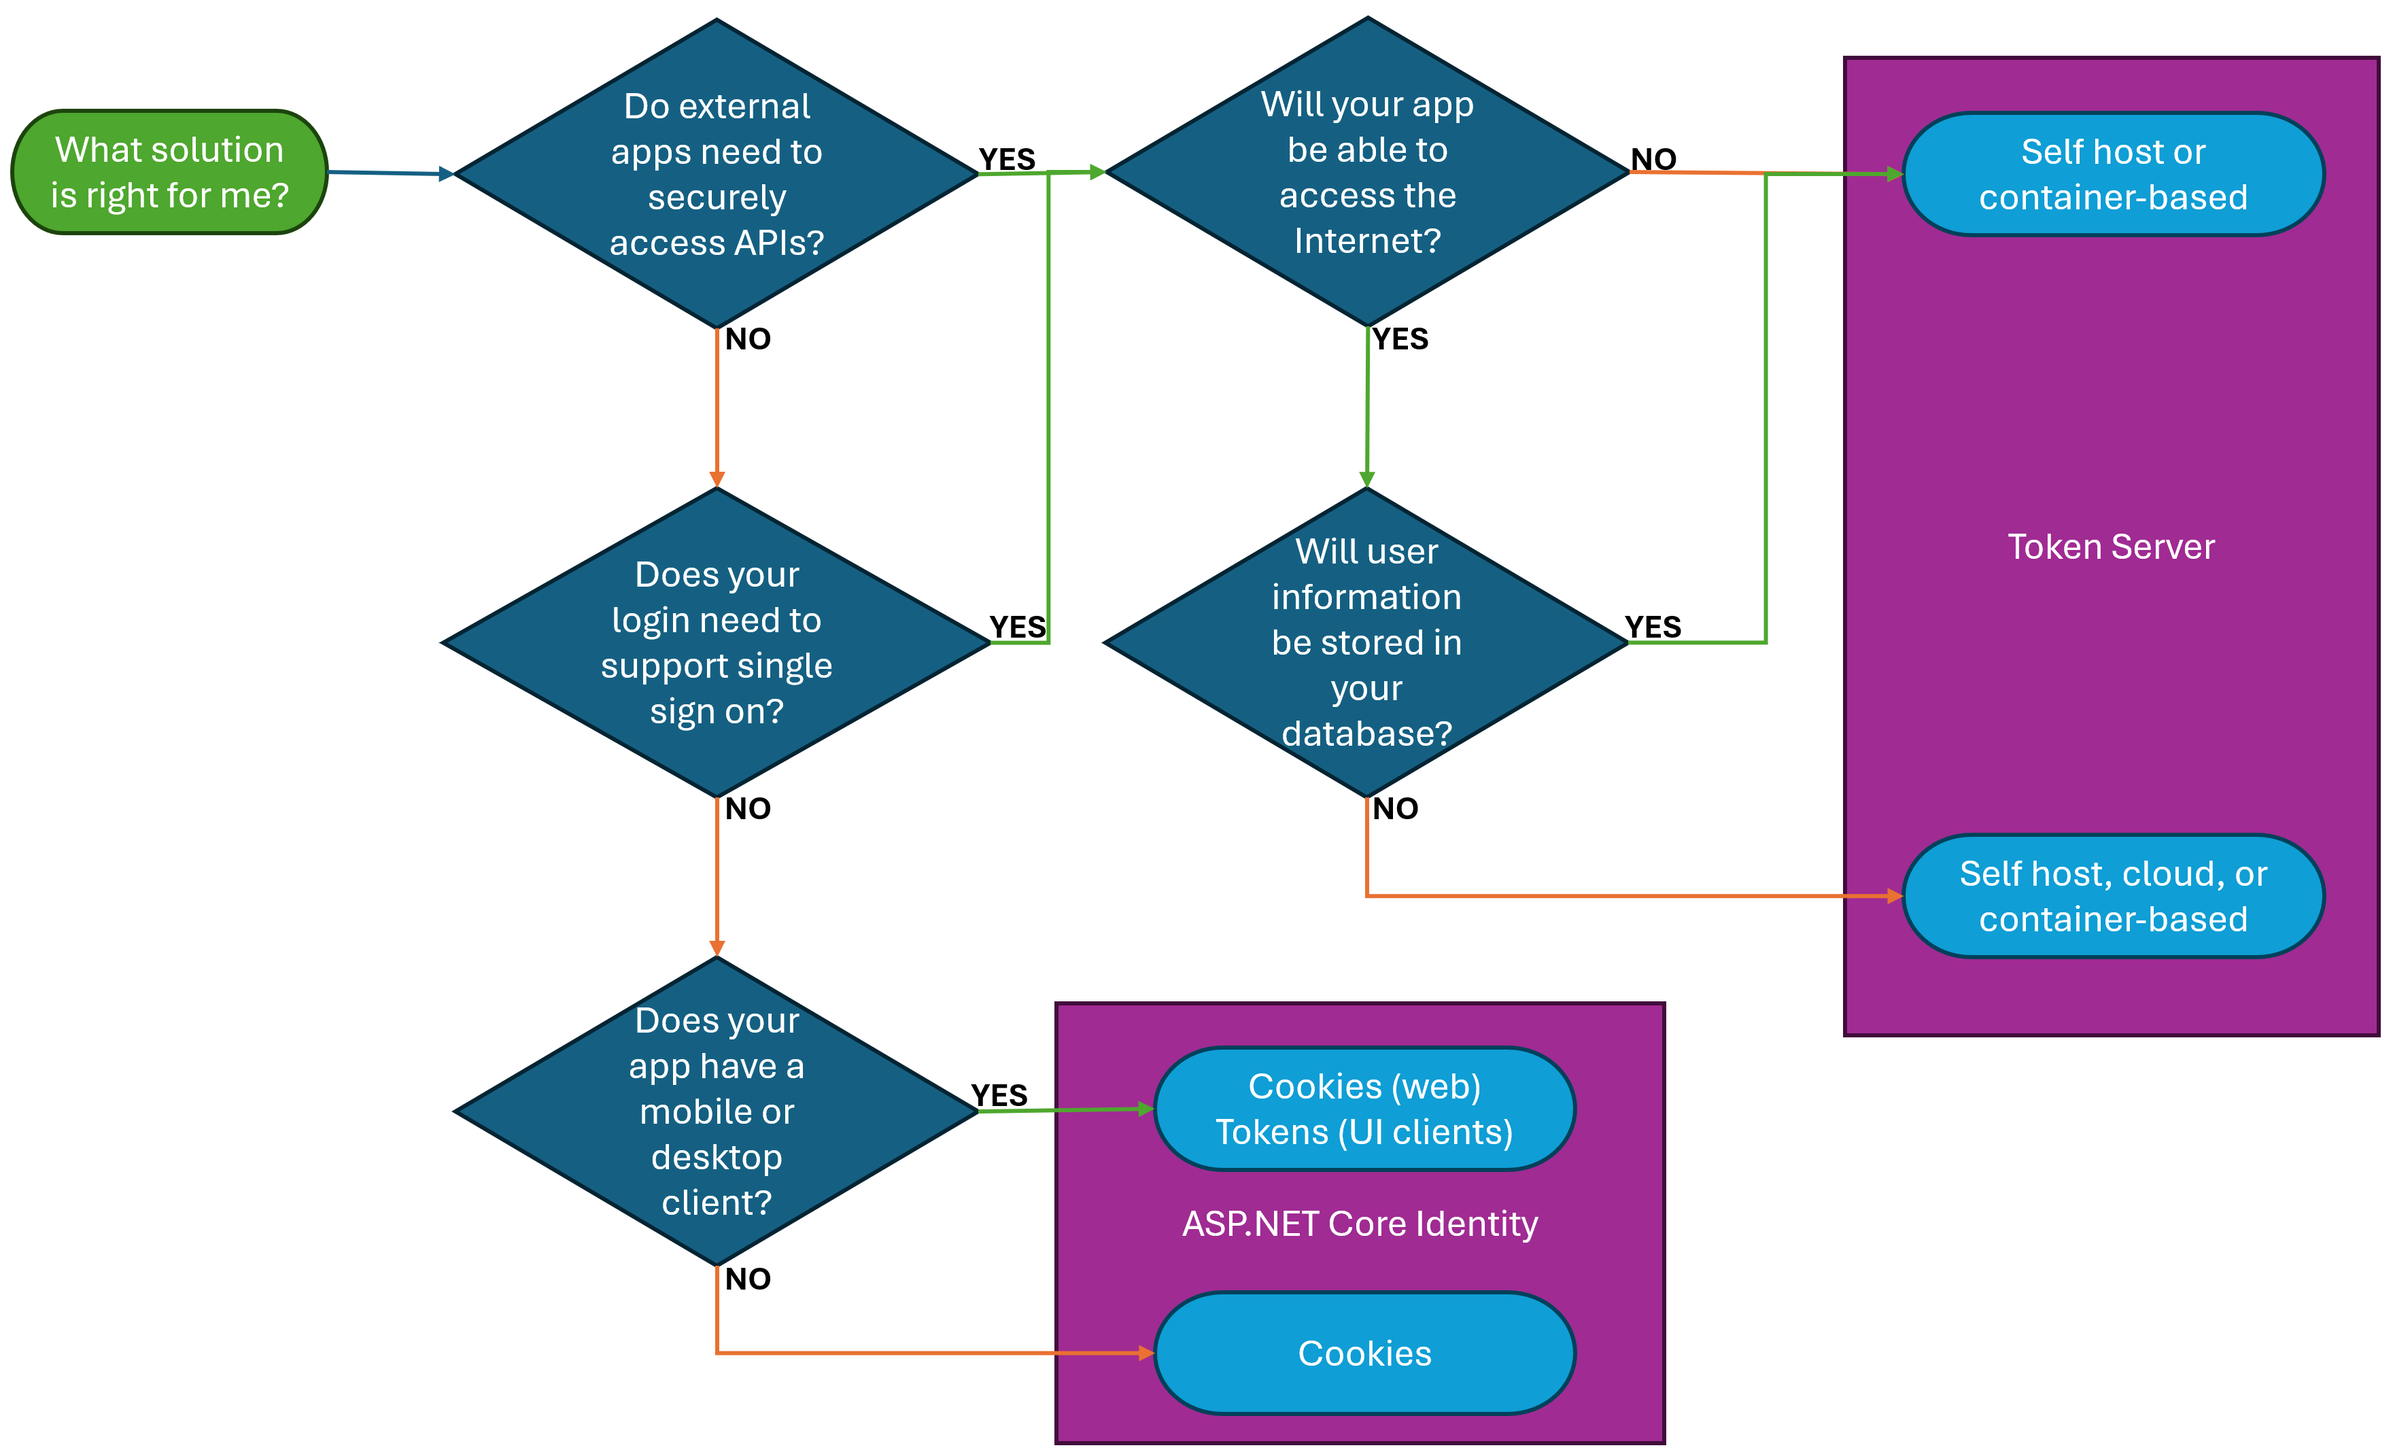
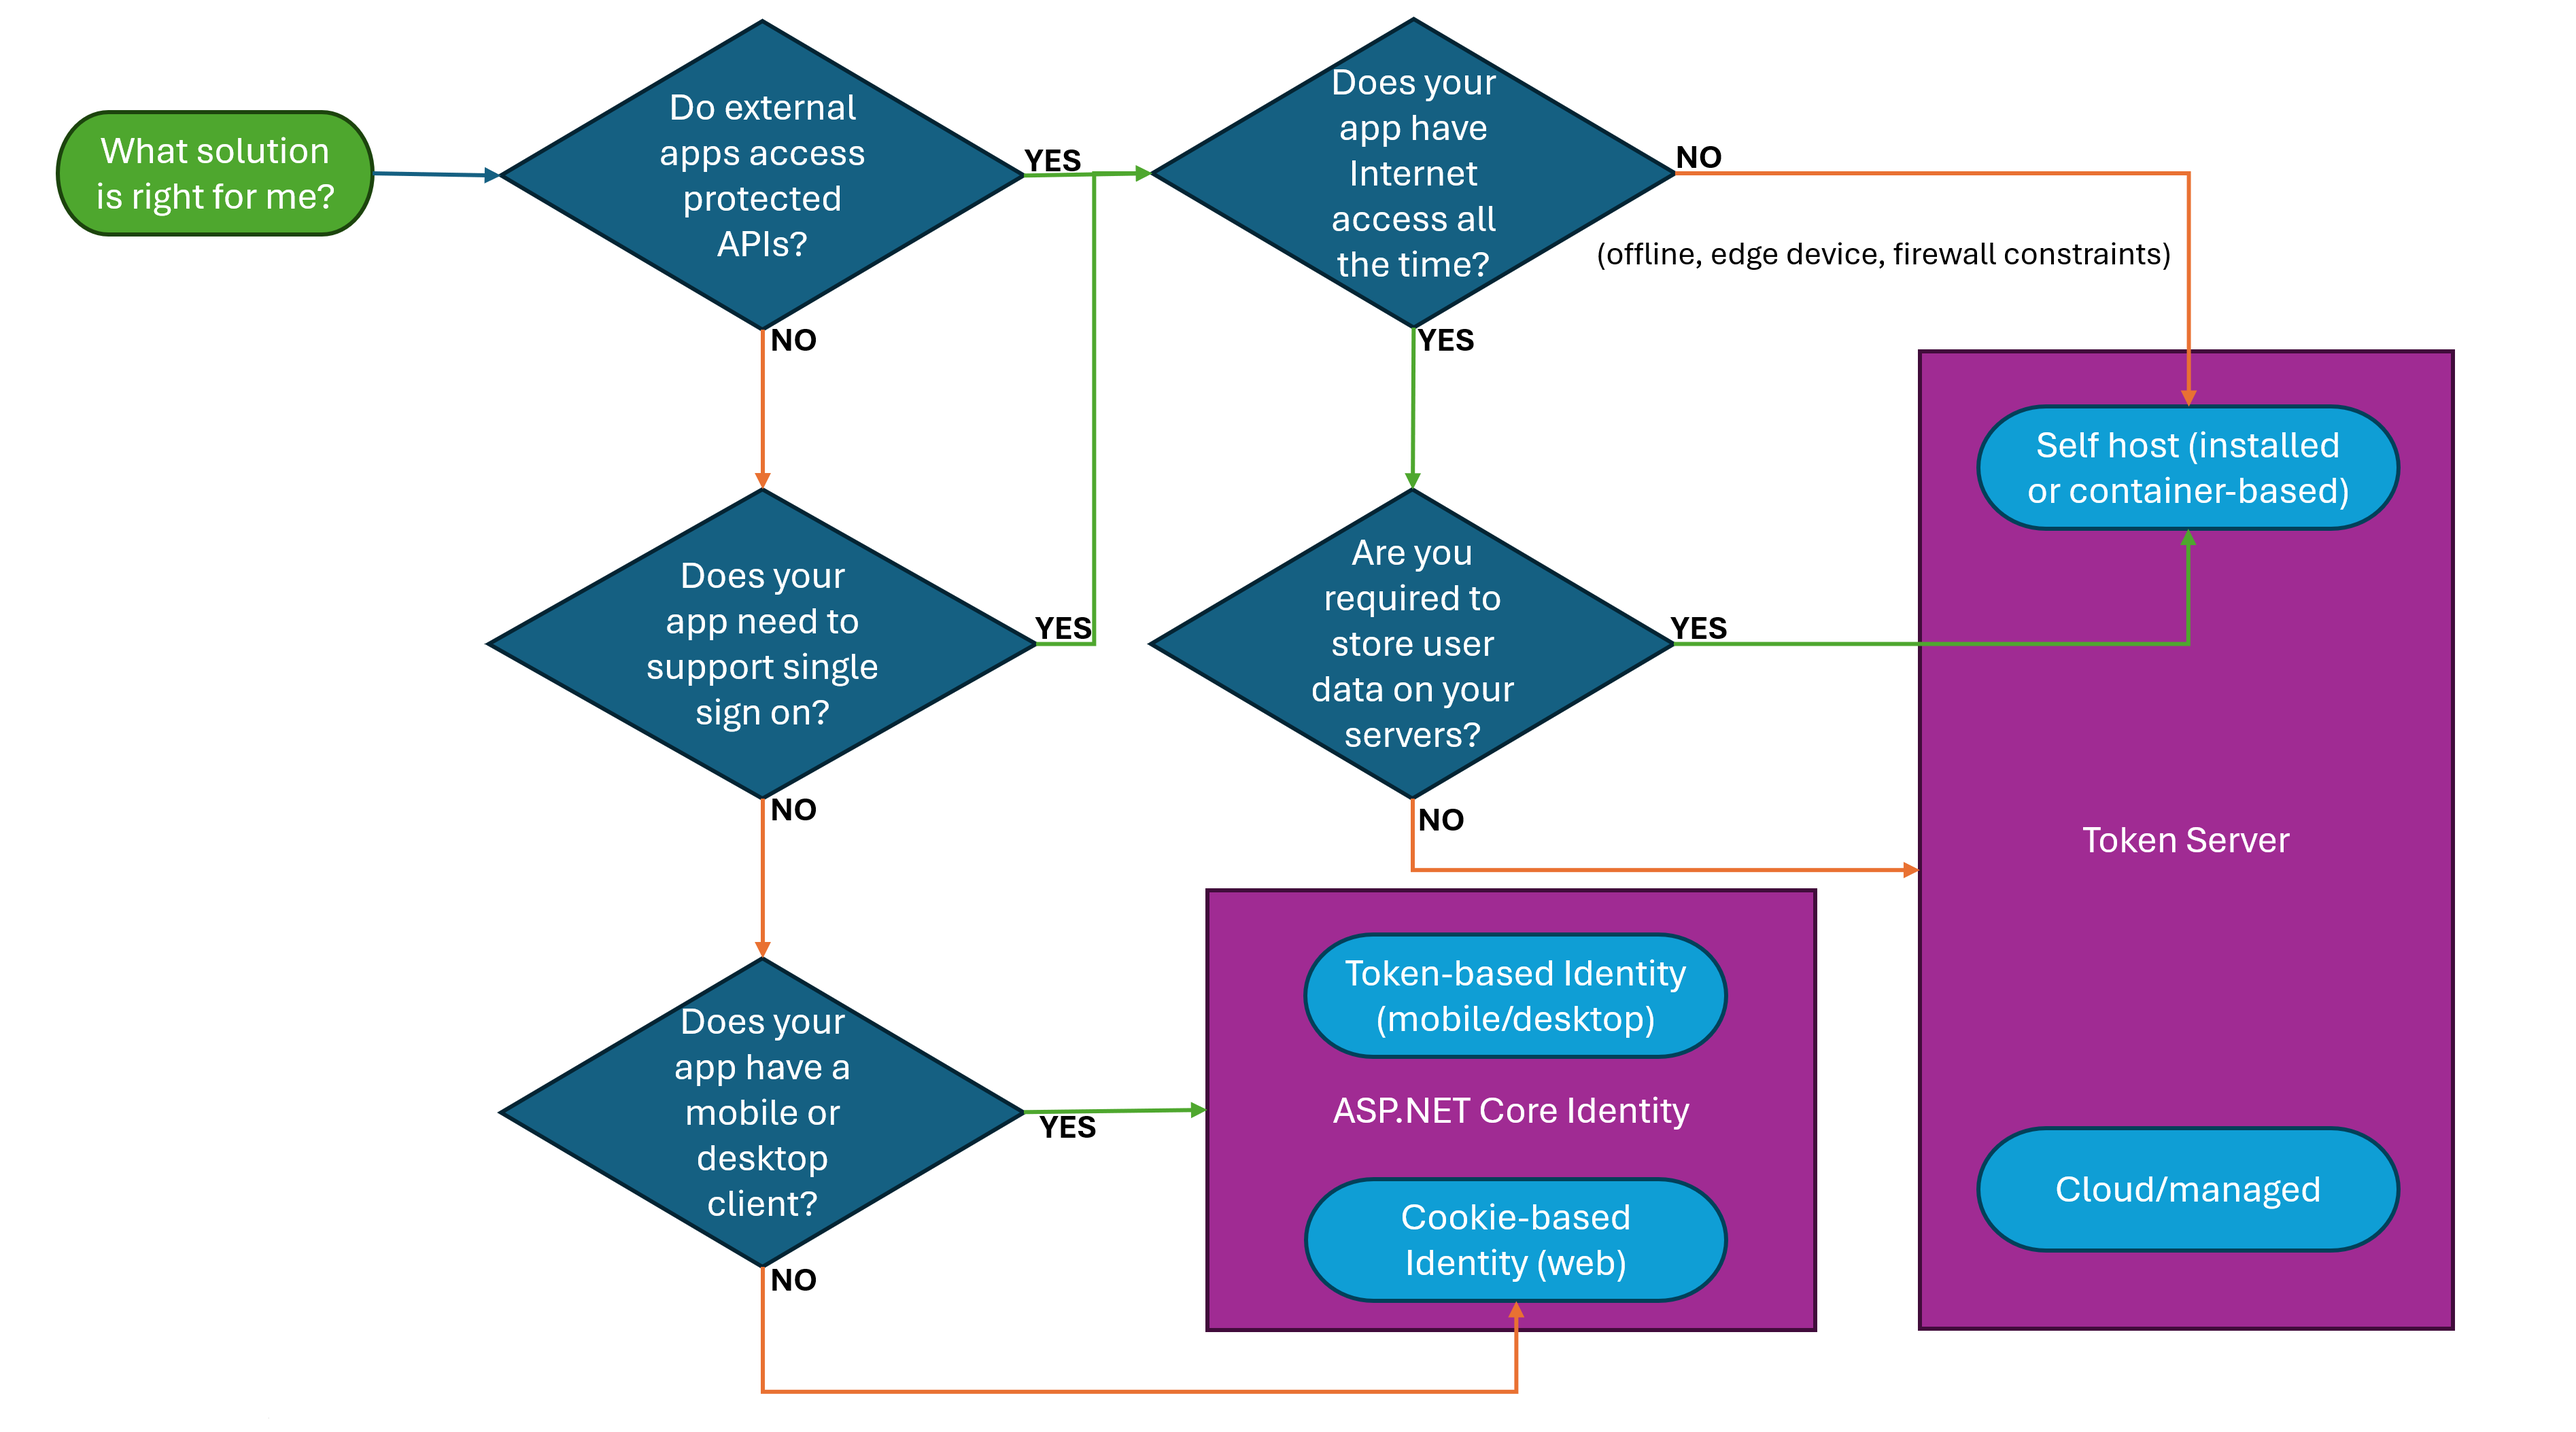
Updates to diagram, links, and text

diff --git a/aspnetcore/security/how-to-choose-identity-solution.md b/aspnetcore/security/how-to-choose-identity-solution.md
@@ -14,21 +14,28 @@ Most web applications support authentication to ensure that users are who they c
 
 ## Basic identity management with ASP.NET Core Identity
 
-ASP.NET Core ships with a built-in authentication provider. The provider includes the APIs, UI, and backend database configuration to support managing user identities, storing user credentials, and granting or revoking permissions. Other features it supports include:
+ASP.NET Core ships with a built-in authentication provider: [ASP.NET Core Identity](xref:security/authentication/identity). The provider includes the APIs, UI, and backend database configuration to support managing user identities, storing user credentials, and granting or revoking permissions. Other features it supports include:
 
-* External logins
-* Two-factor authentication (2FA)
-* Password management
+* [External logins](xref:security/authentication/social/index)
+* [Two-factor authentication (2FA)](xref:security/authentication/2fa)
+* [Password management](xref:security/authentication/accconfirm)
 * Account lockout and reactivation
 * Authenticator apps
 
-For most scenarios, this may be the only provider you need. To learn more, read the [Introduction to Identity on ASP.NET Core](xref:security/authentication/identity) or follow a tutorial to build your own secure .NET web app: [Secure a .NET web app with the ASP.NET Core Identity framework](/training/modules/secure-aspnet-core-identity/). In other scenarios you may need a server or service that manages authentication and identity.
+For most scenarios, this may be the only provider you need. To learn more:
+
+* Read the [Introduction to Identity on ASP.NET Core](xref:security/authentication/identity)
+* Follow a tutorial to build your own secure .NET web app: [Secure a .NET web app with the ASP.NET Core Identity framework](/training/modules/secure-aspnet-core-identity/). 
+
+In other scenarios you may need a server or service that manages authentication and identity.
 
 ## Determine if you need a token server
 
-Web applications require a way to "remember" past actions because the web, by default, is stateless. Otherwise, users would be forced to enter their credentials every time they navigated to a new page. The common solution for this that was invented over 25 years ago is *cookies*, a browser-based mechanism for storing data. The web server sends the initial cookie, then the browser stores it and sends it back with each request. This is done automatically without the need for the developer to write any code. Cookies are easy to use and built into the browser but are designed for use within a single website and/or web domain. The default solution that is built into ASP.NET Core uses cookie-based authentication. 
+Web applications require a way to "remember" past actions because the web, by default, is stateless. Otherwise, users would be forced to enter their credentials every time they navigated to a new page. The common solution for this that was invented decades ago is *cookies*, a browser-based mechanism for storing data. The web server sends the initial cookie, then the browser stores it and sends it back with each request. This is done automatically without the need for the developer to write any code. Cookies are easy to use and built into the browser but are designed for use within a single website and/or web domain. The default solution that is built into ASP.NET Core uses cookie-based authentication. 
 
-Tokens are containers with metadata that are explicitly passed through the headers or body of HTTP requests. The main advantage of tokens over cookies is that they are not tied to a specific application or domain. Instead, tokens are usually "signed" with asymmetric cryptography, a process that uses a combination of a private key known only to the signer, and a public key which everyone can know. The token cannot be tampered with due to the private key, but the public key makes it possible to validate the token to ensure it has not been changed and that it was generated by the entity holding the private key. The main disadvantage to using tokens is that they require a token server to both issue and provide validation for tokens. That server must be installed, configured, and maintained.
+Tokens are containers with metadata that are explicitly passed through the headers or body of HTTP requests. The main advantage of tokens over cookies is that they are not tied to a specific application or domain. Instead, tokens are usually "signed" with asymmetric cryptography, a process that uses a combination of a private key known only to the signer, and a public key which everyone can know. 
+
+The token cannot be tampered with due to the private key, but the public key makes it possible to validate the token to ensure it has not been changed and that it was generated by the entity holding the private key. The main disadvantage to using tokens is that they require a token server to both issue and provide validation for tokens. That server must be installed, configured, and maintained.
 
 The first reason you may need a token server is if your app exposes web-based APIs that are consumed by other apps. In this case, client UIs such as Single Page Applications or SPA (for example: Angular, React, and Blazor WebAssembly), mobile clients, and desktop clients are considered to be part of the same app. If an app other than your web app or any client UIs must make a secure API call to your app, you'll likely want to use tokens. If you only have client UIs, ASP.NET Core Identity provides the option to acquire a token during authentication that can be used by mobile and desktop clients but is not suitable for managing access from external apps.
 
@@ -56,8 +63,8 @@ The decision process is diagrammed here for fast reference:
 
 The following table lists some of the things to consider when choosing your identity management solution.
 
-|**Feature**  ||**Self-host**  |    |**Container**  |    |**Cloud**  |
-|-------------|--|---------------|--|---------------|--|-----------|
+|**Feature**  |Pro/con|**Self-host**  |Pro/con|**Container**  |Pro/con|**Cloud**  |
+|-------------:|:-:|---------------|:-:|---------------|:-:|-----------|
 |**App integration**|✅|Local solutions that are implemented as libraries or frameworks can often be integrated directly in your own app|❌|Container-based solutions require a hand-off to occur between your web app and the container-based service|❌|Container-based solutions typically integrate at specific points in your login flow and provide configuration to update the UI to match your theme, but the level of customization available is limited |
 |**Configuration**|❌|Self host solutions require configuring the software for the environment in addition to setting up how you want to manage identities|✅|Container-based solutions typically provide a web-based UI for configuration|✅|Cloud-based solutions typically provide a web-based UI for configuration|
 |**Customization**|✅|Self-host solutions are usually highly customizable, including code-based changes|❌|Although containerized solutions provide extensibility options, they are often more limited|❌|Cloud-based services allow customization but it is typically limited to configuration-based changes|
